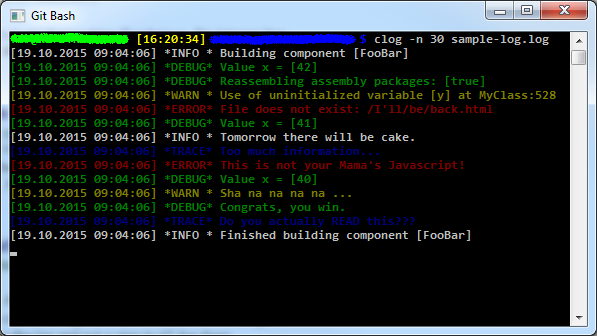
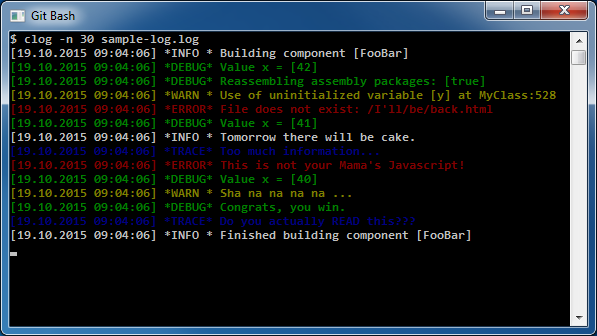
A little image preview for the readme.

Changed region(s): [[0.0, 0.0, 1.0, 1.0]]

diff --git a/README.md b/README.md
@@ -1,11 +1,11 @@
 # color-logviewer
 
-## Summary
-
 Prints out the tail of a logfile with lines colored depending on the keywords you defined.
 
 * npm: [https://www.npmjs.com/package/color-logviewer](https://www.npmjs.com/package/color-logviewer)
 * GitHub: [https://github.com/floriankraft/color-logviewer](https://github.com/floriankraft/color-logviewer)
+
+![color-logviewer in action](https://raw.githubusercontent.com/floriankraft/color-logviewer/master/color-logviewer.png)
 
 ## Installation
 
@@ -68,9 +68,9 @@ alias clog-warn="clog -c ERROR=red,WARN=yellow"
 
 ## Todo
 
-* [ ] More reliable error handling
-* [x] Before listening for new lines, display the last n lines of the logfile
 * [ ] Enter key should insert blank lines, for a more "tail"-like experience
-* [ ] Create a nice image of the program in action and show it here
 * [ ] Make line endings configurable
-* [ ] Handling of `-n 0`
+* [x] Create a nice image of the program in action and show it here
+* [x] More reliable error handling
+* [x] Handling of `-n 0`
+* [x] Before listening for new lines, display the last n lines of the logfile
